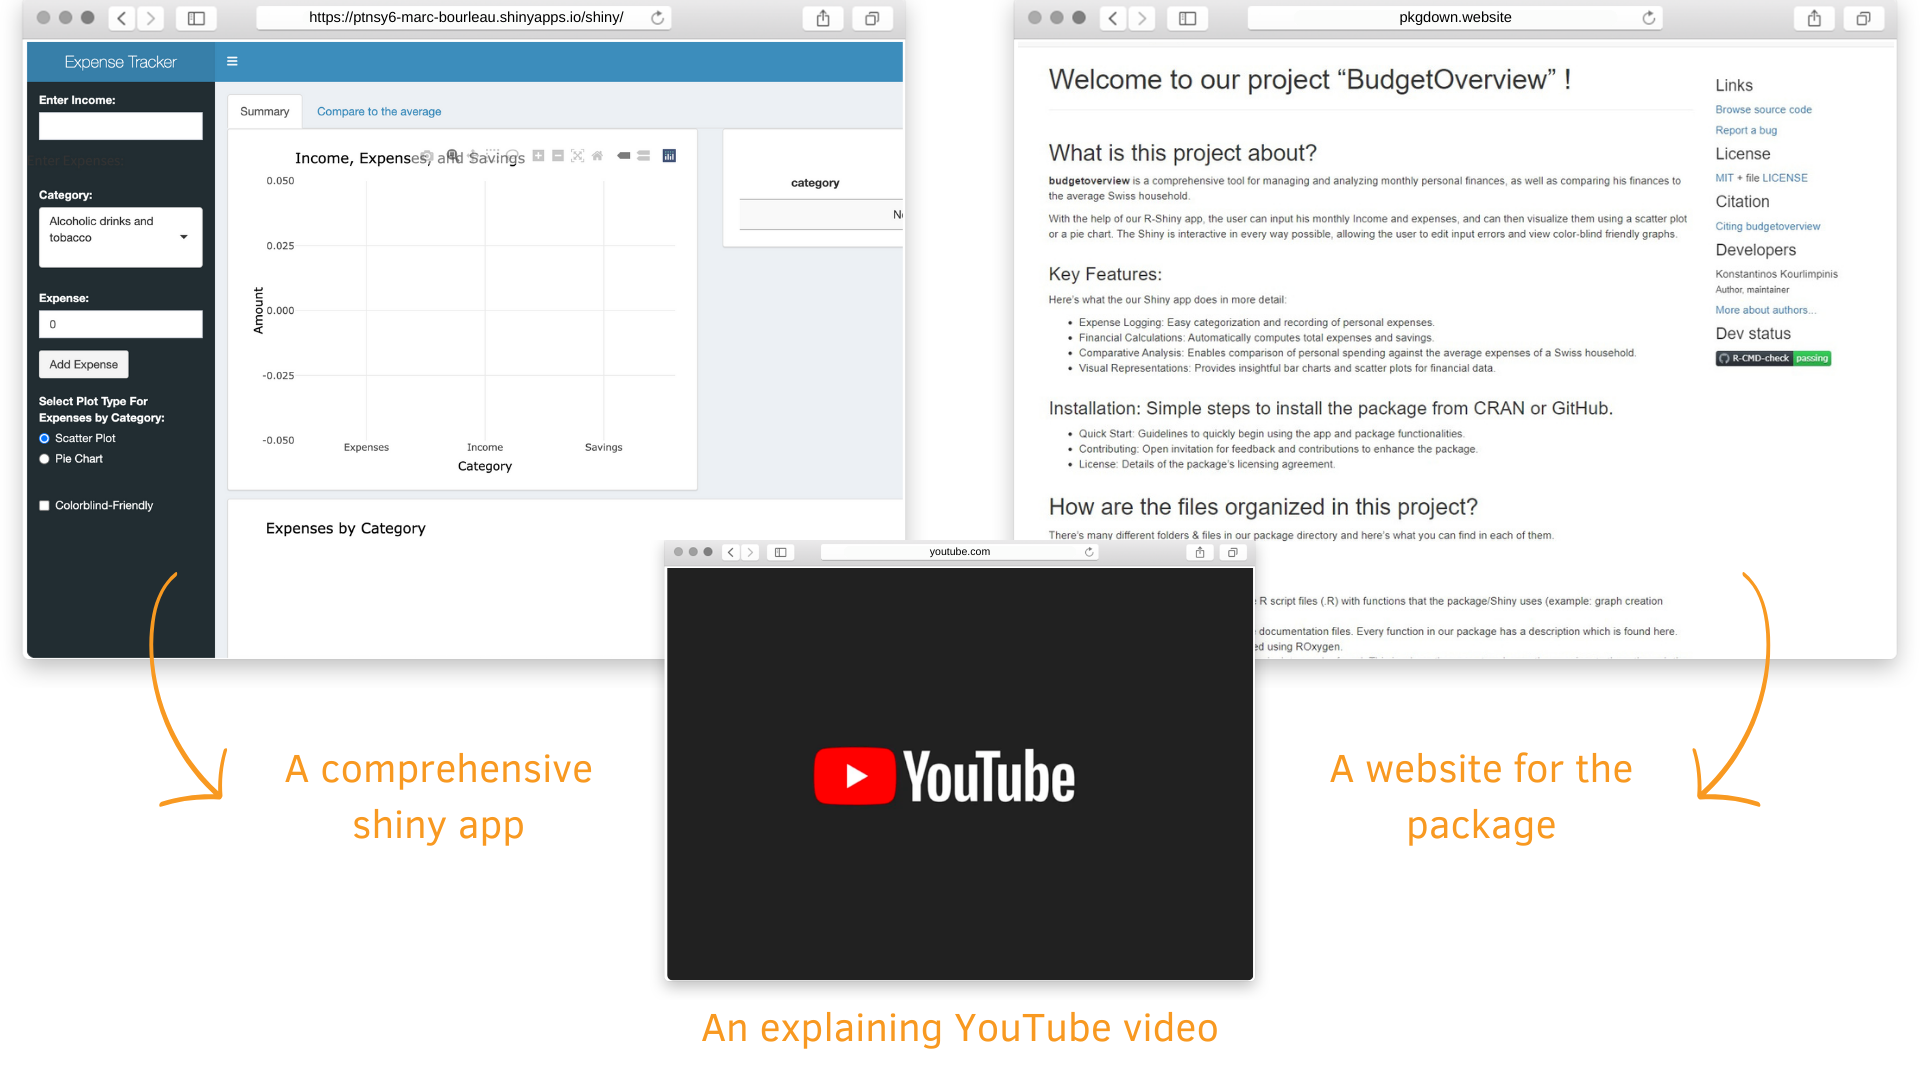
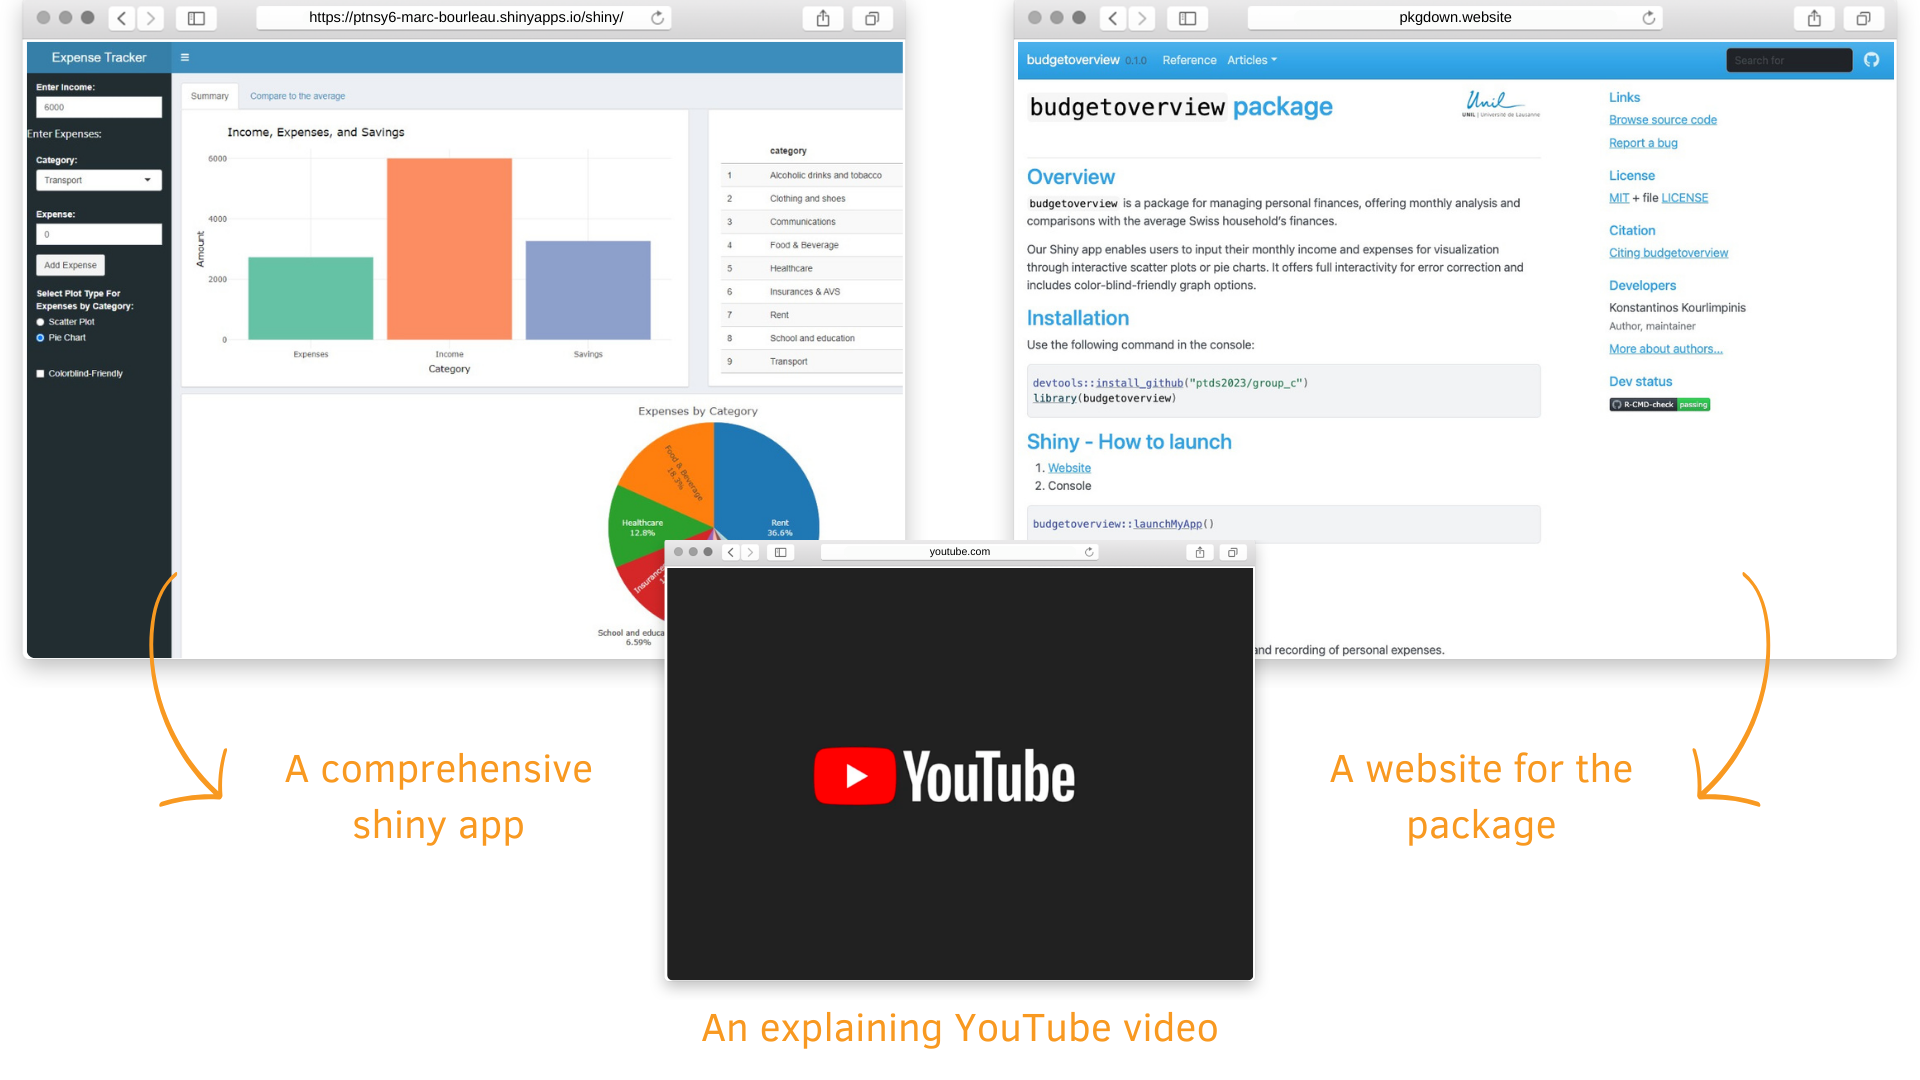
Updating the slides for the presentation
Updated some photos & changed the slides we discussed that needed to be optimized.

diff --git a/inst/extdata/presentation files/PTDS_GroupC.html b/inst/extdata/presentation files/PTDS_GroupC.html
@@ -199,70 +199,52 @@ class: center, bottom, inverse
 class: left, middle
 
 # Our Shiny App
-.pull-left[
 
-#### The User's Input:
+.pull-left[
+## The User's Input:
+
 - Enter your income
+
 - Enter your expenses
   - Select a category &amp; Add the amount
+  
 - Choose Visualization
+
 - Colorblind mode
-
-#### The Output:
-- Bar Chart for the Savings
-- Table of Expenses
-- Scatter Plot &amp; Pie Chart
-
-
-#### Compare with the swiss average
 ]
 
 .pull-right[
-![shiny example](pictures/Shiny.png)
-]
-
----
-class: left
-
-# Optimization &amp; Package Creation
-
-## Optimization
-
-.pull-left[
-From this...
-![messy finances](pictures/nonoptimization.png)
-]
-
-.pull-right[
-To this !
 
 ![example shiny](pictures/optimization.png)
 ]
+
 ---
-class: left
+class: left, middle
 
-# Optimization &amp; Package Creation
-
-## Optimization
+# Our Shiny App
 
 .pull-left[
-And from this...
-![empty wallet](pictures/nonoptimization2.png)
+## The User's Output:
+
+- Bar Chart for the Savings
+
+- Table of Expenses
+
+- Scatter Plot &amp; Pie Chart
+
+- Compare with the swiss average
 ]
 
 .pull-right[
-To this !
-
 ![example shiny](pictures/optimization2.png)
-]
+] 
 ---
 
-# Our Shiny app &amp; Key features
+# The Key features 
 
 ![our shiny app](pictures/Shiny.png)
 - User can edit any input
 - Error prevention (negative, non-numerical)
-
 
 ---
 # Optimization &amp; Package Creation
@@ -273,22 +255,21 @@ Install the **budgetoverview** package from [Github](https://github.com/budgetov
 
 
 ```r
-remotes::install_github("budgetoverview")
+devtools::install_github("ptds2023/group_c")
+library(budgetoverview)
+```
+--
+
+- Launch the Shiny
+
+
+```r
+budgetoverview::launchMyApp()
 ```
 
 --
 
-You are recommended to use the [RStudio IDE](https://www.rstudio.com/products/rstudio/), but you do not have to.
-
-- Create a new R Markdown document from the menu `File -&gt; New File -&gt; R Markdown -&gt; From Template -&gt; Ninja Presentation`;&lt;sup&gt;1&lt;/sup&gt;
-
---
-
-- Click the `Knit` button to compile it;
-
---
-
-- or use the [RStudio Addin](https://rstudio.github.io/rstudioaddins/)&lt;sup&gt;2&lt;/sup&gt; "Infinite Moon Reader" to live preview the slides (every time you update and save the Rmd document, the slides will be automatically reloaded in RStudio Viewer.
+- Use the [documentation](https://ptds2023.github.io/group_c/articles/function-usage.html) to get used to the package and use it on your own.
 
 ---
 # Functions &amp; Testing 
@@ -346,9 +327,13 @@ expect_true(is.null(result) || inherits(result, "plotly"))
 ---
 class: left, middle
 
-# The Final product
+# The Final product&lt;sup&gt;1&lt;/sup&gt;
 
-![an image](pictures/results.png)
+![results image](pictures/results.png)
+
+.footnote[
+    &lt;small&gt;[1] Click [here](https://ptnsy6-marc-bourleau.shinyapps.io/shiny/) to access the shiny app.&lt;/small&gt;
+]
 
 ---
 class: inverse, left, middle
@@ -363,7 +348,7 @@ class: inverse, left, middle
 
 - Limited data integration: webscraping was used, but larger databases could have been used.
 
-- Interface customization: we'd have liked to do even more.
+- Interface customization: more/better visualizations
 
 ---
 background-image: url(pictures/thankyou.png)
